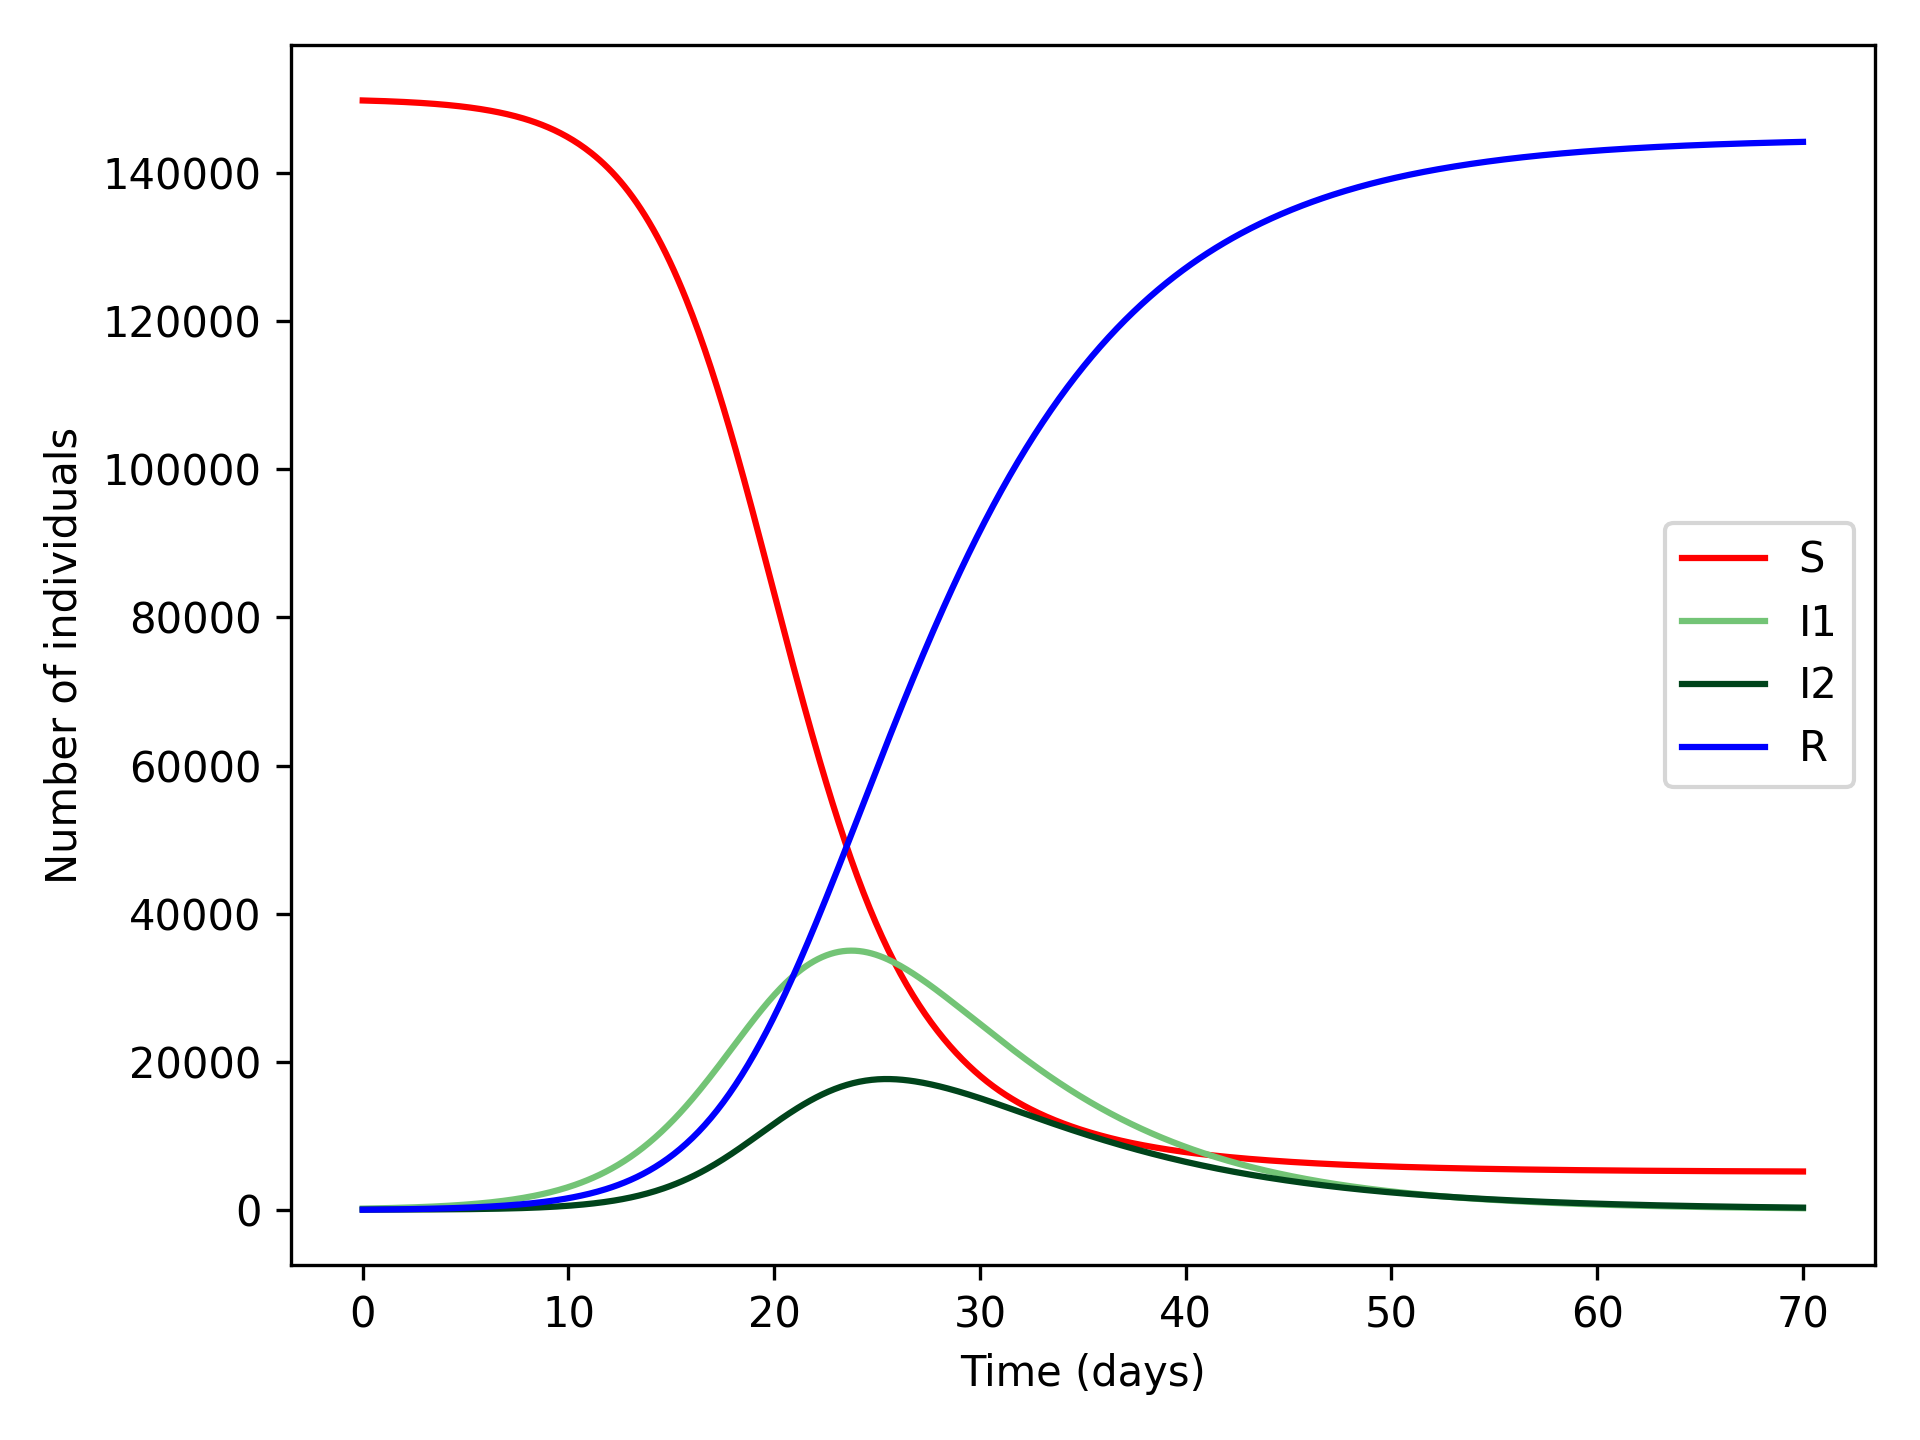
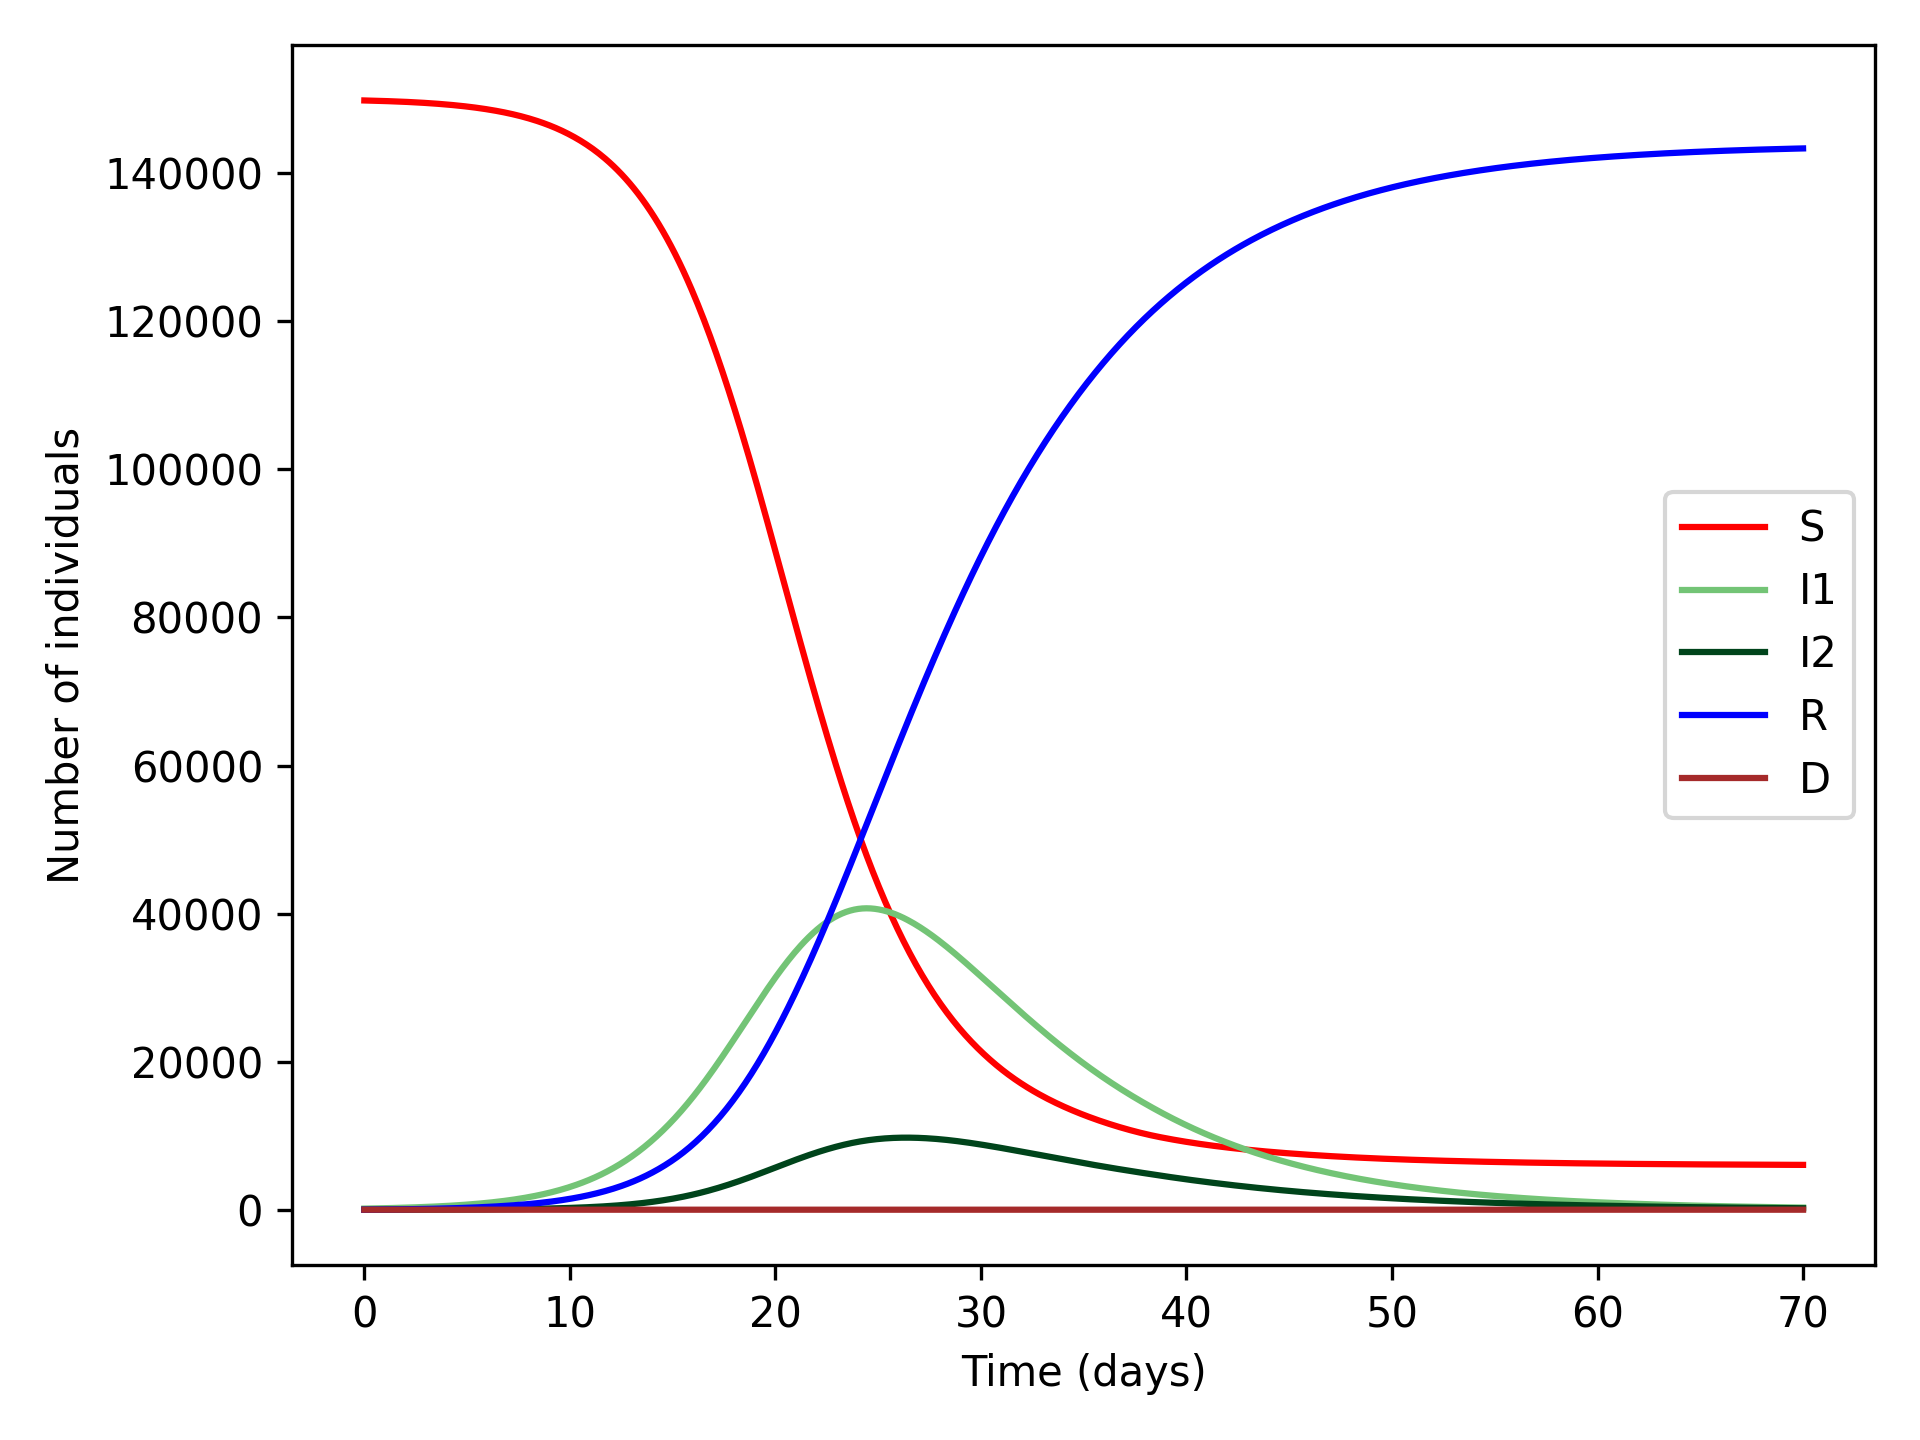
Add delayed introduction of strains

diff --git a/epistrains/solver.py b/epistrains/solver.py
@@ -6,6 +6,12 @@ from epistrains.strain import Strain
 import matplotlib.pylab as plt
 
 
+class Solution:
+    def __init__(self, n_comps):
+        self.t = np.array([])
+        self.y = np.array([[] for _ in range(n_comps)])
+
+
 class Solver:
     """ Solver based parameters for the construction of ODE
     right hand equations. Calculate ODE solution and plot
@@ -104,15 +110,31 @@ class Solver:
     def solve(self):
         """Solve the differential equations
         """
-        t_eval = np.linspace(0, self.time, self.time*10)
-        y0 = np.array([self.n_sus] + [strain.infected for strain in self.strains] + [0.0])
-        sol = scipy.integrate.solve_ivp(
-            fun=lambda t, y: self._rhs(y),
-            t_span=[t_eval[0], t_eval[-1]],
-            y0=y0,
-            t_eval=t_eval,
-        )
-        self.solution = sol
+        delays = set(strain.delay for strain in self.strains)
+        delays.add(0)
+        delays.add(self.time)
+        time_pts = sorted(list(delays))
+        y0 = np.array([self.n_sus] + [0.0 for _ in self.strains] + [0.0])
+        full_sol = Solution(len(y0))
+        # To add the people infected with each strain at a specified time,
+        # we pause the model at each delay
+        for i in range(len(time_pts) - 1):
+            start = time_pts[i]
+            end = time_pts[i+1]
+            t_eval = np.linspace(start, end, int((end-start)*10))
+            for j, strain in enumerate(self.strains):
+                if strain.delay == start:
+                    y0[j+1] = strain.infected
+            sol = scipy.integrate.solve_ivp(
+                fun=lambda t, y: self._rhs(y),
+                t_span=[t_eval[0], t_eval[-1]],
+                y0=y0,
+                t_eval=t_eval,
+            )
+            full_sol.t = np.concatenate((full_sol.t, sol.t))
+            full_sol.y = np.concatenate((full_sol.y, sol.y), axis=1)
+            y0 = sol.y[:, -1]
+        self.solution = full_sol
 
     def _count_virus_death(self):
         """Counting the number of deaths caused by the viruses

diff --git a/epistrains/tests/test_solver.py b/epistrains/tests/test_solver.py
@@ -12,7 +12,7 @@ class SolverTest(unittest.TestCase):
     def setUp(self):
         s1 = es.Strain(0.1, 0.2, 0.3, 10)
         s2 = es.Strain(0.1, 0.2, 0.6, 5)
-        s3 = es.Strain(0.1, 0.2, 0.6, 1)
+        s3 = es.Strain(0.1, 0.2, 0.6, 1, delay=10)
         self.strains = [s1, s2, s3]
         br = es.make_br(2.0, 3.0)
         p = es.Population(0.5, 100, br)
@@ -45,10 +45,10 @@ class SolverTest(unittest.TestCase):
             s._count_virus_death()
         s.solve()
         s._count_virus_death()
-        #check the length of the new death array
+        # check the length of the new death array
         self.assertEqual(len(s.deaths), len(s.solution.t))
-        #check number deaths smaller than number of infected (at previous time step)
-        assert(all(s.deaths[1:] <= (s.solution.y[1,:] + s.solution.y[2,:] + s.solution.y[3,:])[:-1]))
+        # check number deaths smaller than number of infected (at previous time step)
+        assert(all(s.deaths[1:] <= (s.solution.y[1, :] + s.solution.y[2, :] + s.solution.y[3, :])[:-1]))
 
     def test_make_plot(self):
         s = es.Solver(strains=self.strains, pop=self.p)

diff --git a/epistrains/strain.py b/epistrains/strain.py
@@ -10,7 +10,7 @@ class Strain:
     :param infected: initial number of people infected with the strain
     :type infected: int
     """
-    def __init__(self, CFR: float, recovery_time: float, R0: float, infected: int):
+    def __init__(self, CFR: float, recovery_time: float, R0: float, infected: int, delay=0.0):
         if not ((isinstance(CFR, float)) or (isinstance(CFR, int))):
             raise TypeError("Case fatality rate should be numeric")
         if not ((isinstance(recovery_time, float)) or (isinstance(recovery_time, int))):
@@ -19,9 +19,11 @@ class Strain:
             raise TypeError("R0 should be float")
         if not isinstance(infected, int):
             raise TypeError("Number of infected should be numeric")
-            
+        if not ((isinstance(delay, float)) or (isinstance(delay, int))):
+            raise TypeError("Delay rate should be numeric")
+
         self.nu = 1/recovery_time
         self.alpha = CFR*self.nu
         self.beta_unscaled = (R0*(self.alpha + self.nu))
         self.infected = infected
-        
+        self.delay = delay

diff --git a/epistrains/tests/test_strain.py b/epistrains/tests/test_strain.py
@@ -11,11 +11,12 @@ class StrainTest(unittest.TestCase):
         """
         Tests Strain creation.
         """
-        s = es.Strain(0.1, 0.2, 0.3, 10)
+        s = es.Strain(0.1, 0.2, 0.3, 10, 15)
         self.assertEqual(s.alpha, 0.5)
         self.assertEqual(s.nu, 5.0)
         self.assertEqual(s.beta_unscaled, 1.65)
         self.assertEqual(s.infected, 10)
+        self.assertEqual(s.delay, 15)
 
         with pytest.raises(TypeError):
             s = es.Strain('bad', 0.2, 0.3, 10)
@@ -28,3 +29,6 @@ class StrainTest(unittest.TestCase):
 
         with pytest.raises(TypeError):
             s = es.Strain(0.1, 0.2, 0.3, 10.5)
+
+        with pytest.raises(TypeError):
+            s = es.Strain(0.1, 0.2, 0.3, 10, 'bad')

diff --git a/example.py b/example.py
@@ -13,7 +13,7 @@ population = Population(death=0.000006, size=150000, birth_function=birth_rate_f
 # Strain I2 has a case fatality rate (CFR) = 0.001, recovery time = 8 days, and an R0 = 4.22.
 # At the start of the simulation 10 individuals are infected with strain I2.
 I1 = Strain(CFR=0.00007, recovery_time=7, R0=3.14, infected=150)
-I2 = Strain(CFR=0.001, recovery_time=8, R0=4.22, infected=10)
+I2 = Strain(CFR=0.001, recovery_time=8, R0=4.22, infected=10, delay=2)
 
 # Instantiate the Solver class, providing it with the population structure and the two strains to be modelled,
 # as well as the total time over which to run the simulation.

diff --git a/epistrains/population.py b/epistrains/population.py
@@ -7,7 +7,7 @@ class Population:
     Parameters
 
     :param death: constant death rate
-    :type death: float  
+    :type death: float
     :param size: initial population size
     :type size: int
     :param birth_function: function to govern birth rate
@@ -51,7 +51,7 @@ def make_br(a: float, k: float):
     def br(N: int):
         """Generate exponential birth rate function
         Parameters
-        
+
         :param N: current population size
         :type N: int
         """
